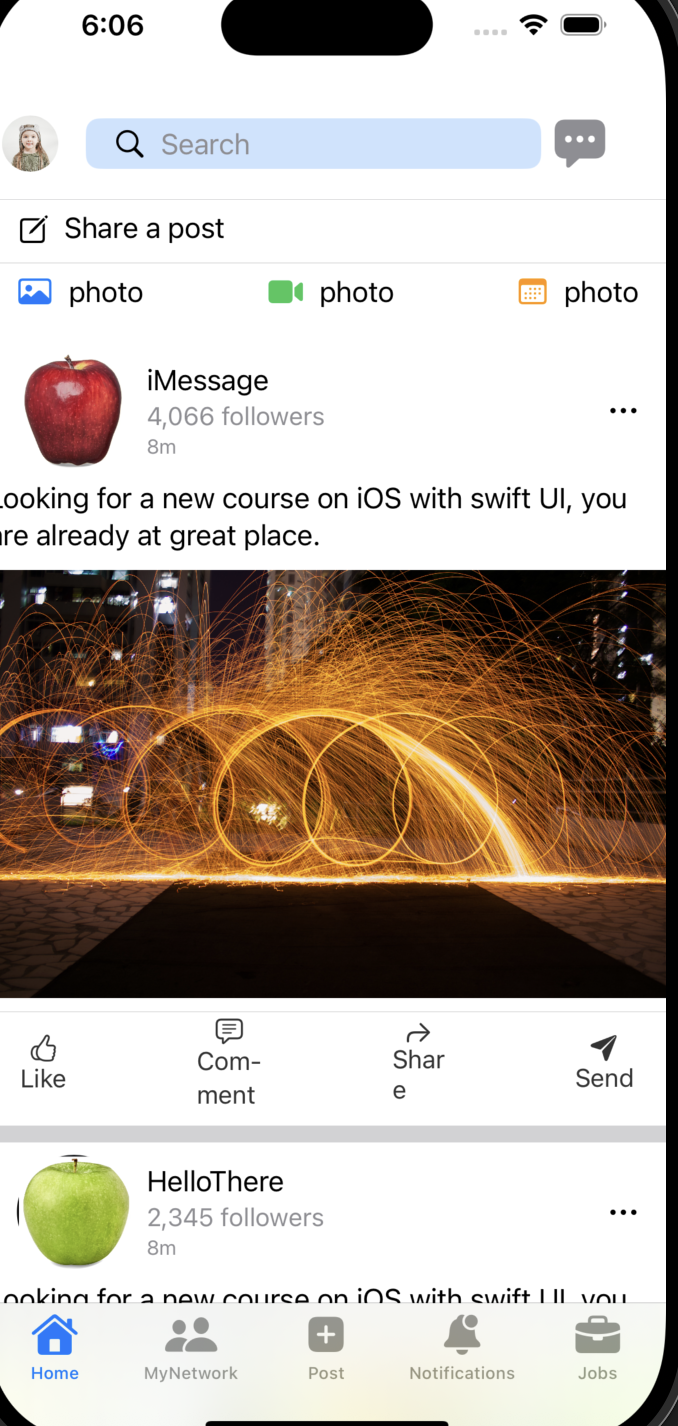
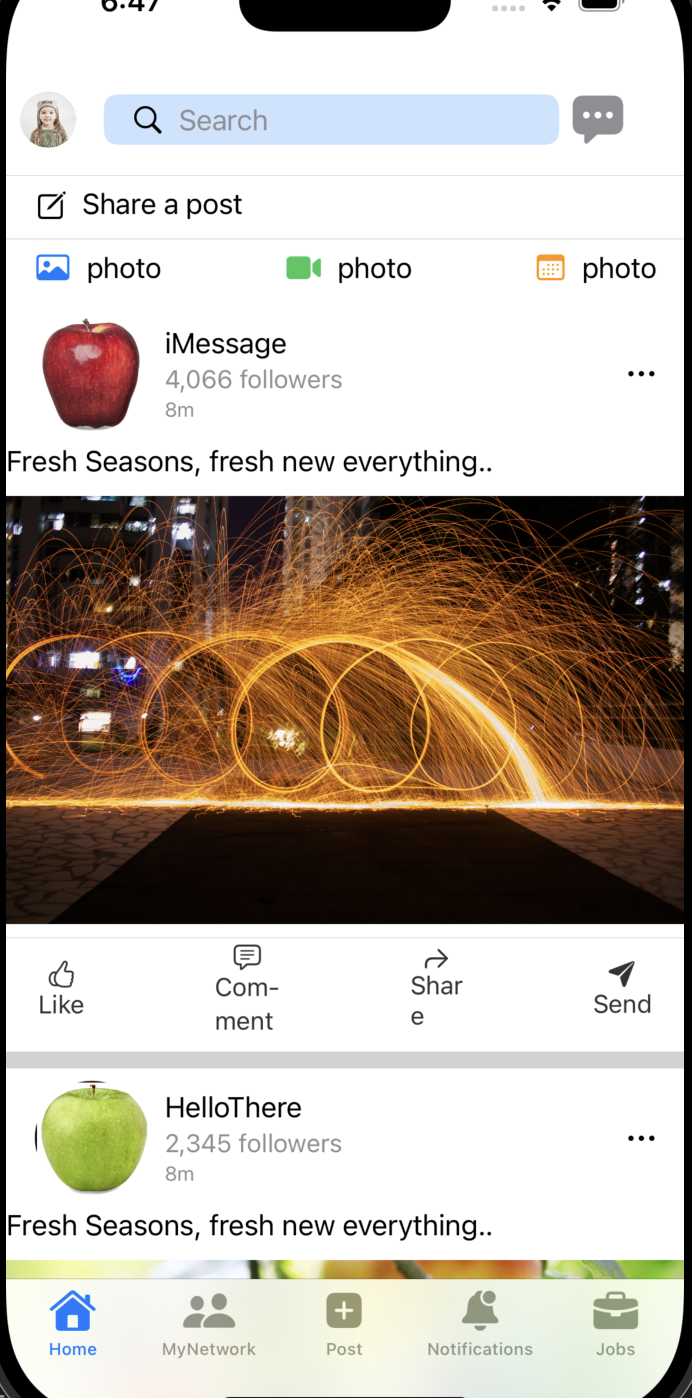
Adding files

diff --git a/linkedinUI/linkedinUI/Views/PostCardView.swift b/linkedinUI/linkedinUI/Views/PostCardView.swift
@@ -21,7 +21,7 @@ var socialView: [SocialView] = [
 ]
 
 
-let samplePostData = PostData(id: 1, Image: "02", title: "Hitesh Choudhary", followers: 5, profileImage: "1")
+let samplePostData = PostData(id: 1, Image: "02", title: "HelloThere", followers: 5, profileImage: "1")
 
 struct PostCardView: View {
     var data: PostData
@@ -50,7 +50,7 @@ struct PostCardView: View {
                 Spacer()
                 Image(systemName: "ellipsis")
             }.padding(.horizontal)
-            Text("Looking for a new course on iOS with swift UI, you are already at great place.")
+            Text("Fresh Seasons, fresh new everything.")
             Image(data.Image)
                 .resizable()
                 .aspectRatio(contentMode: .fit)
